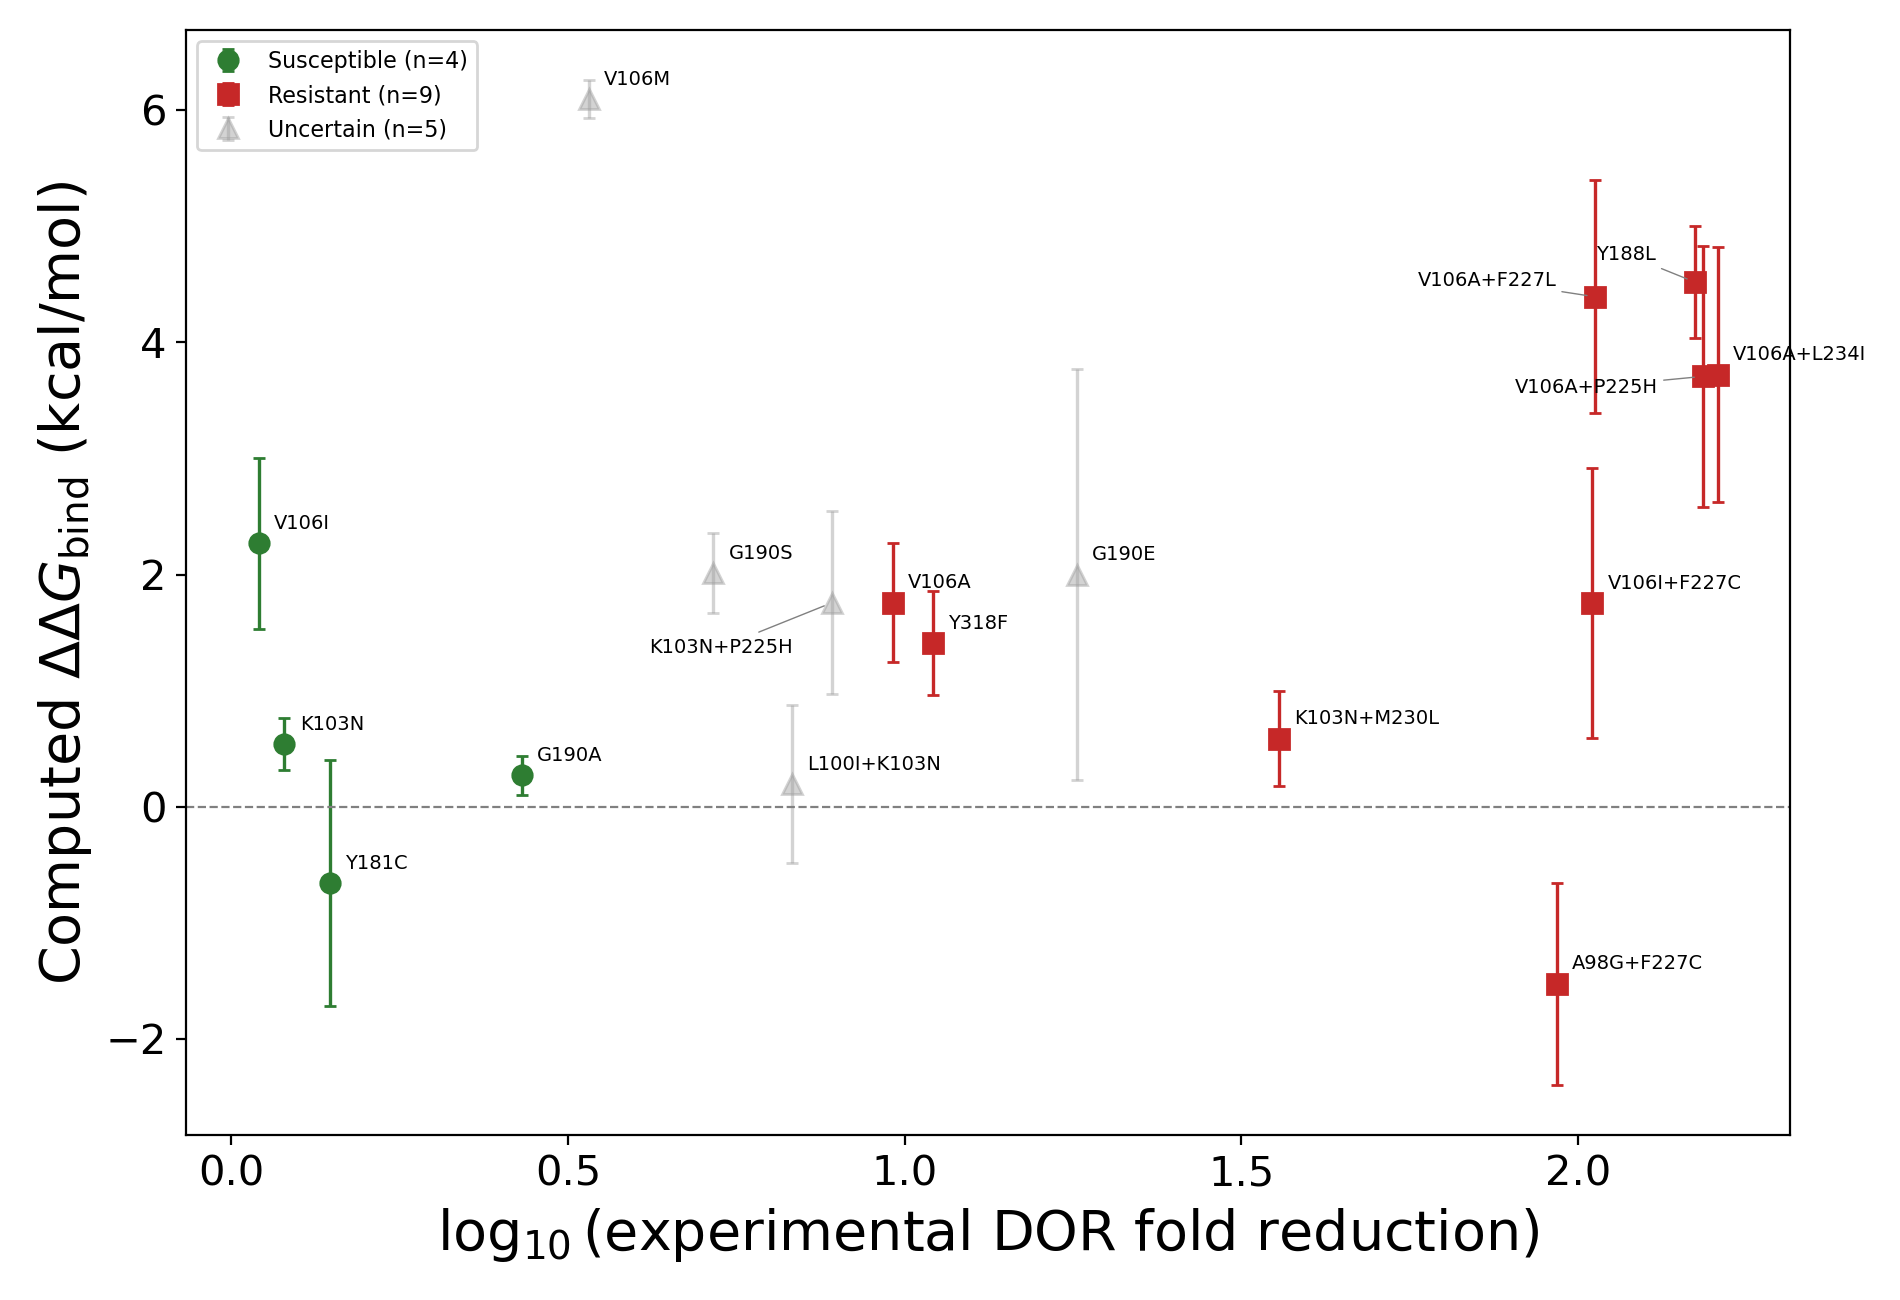
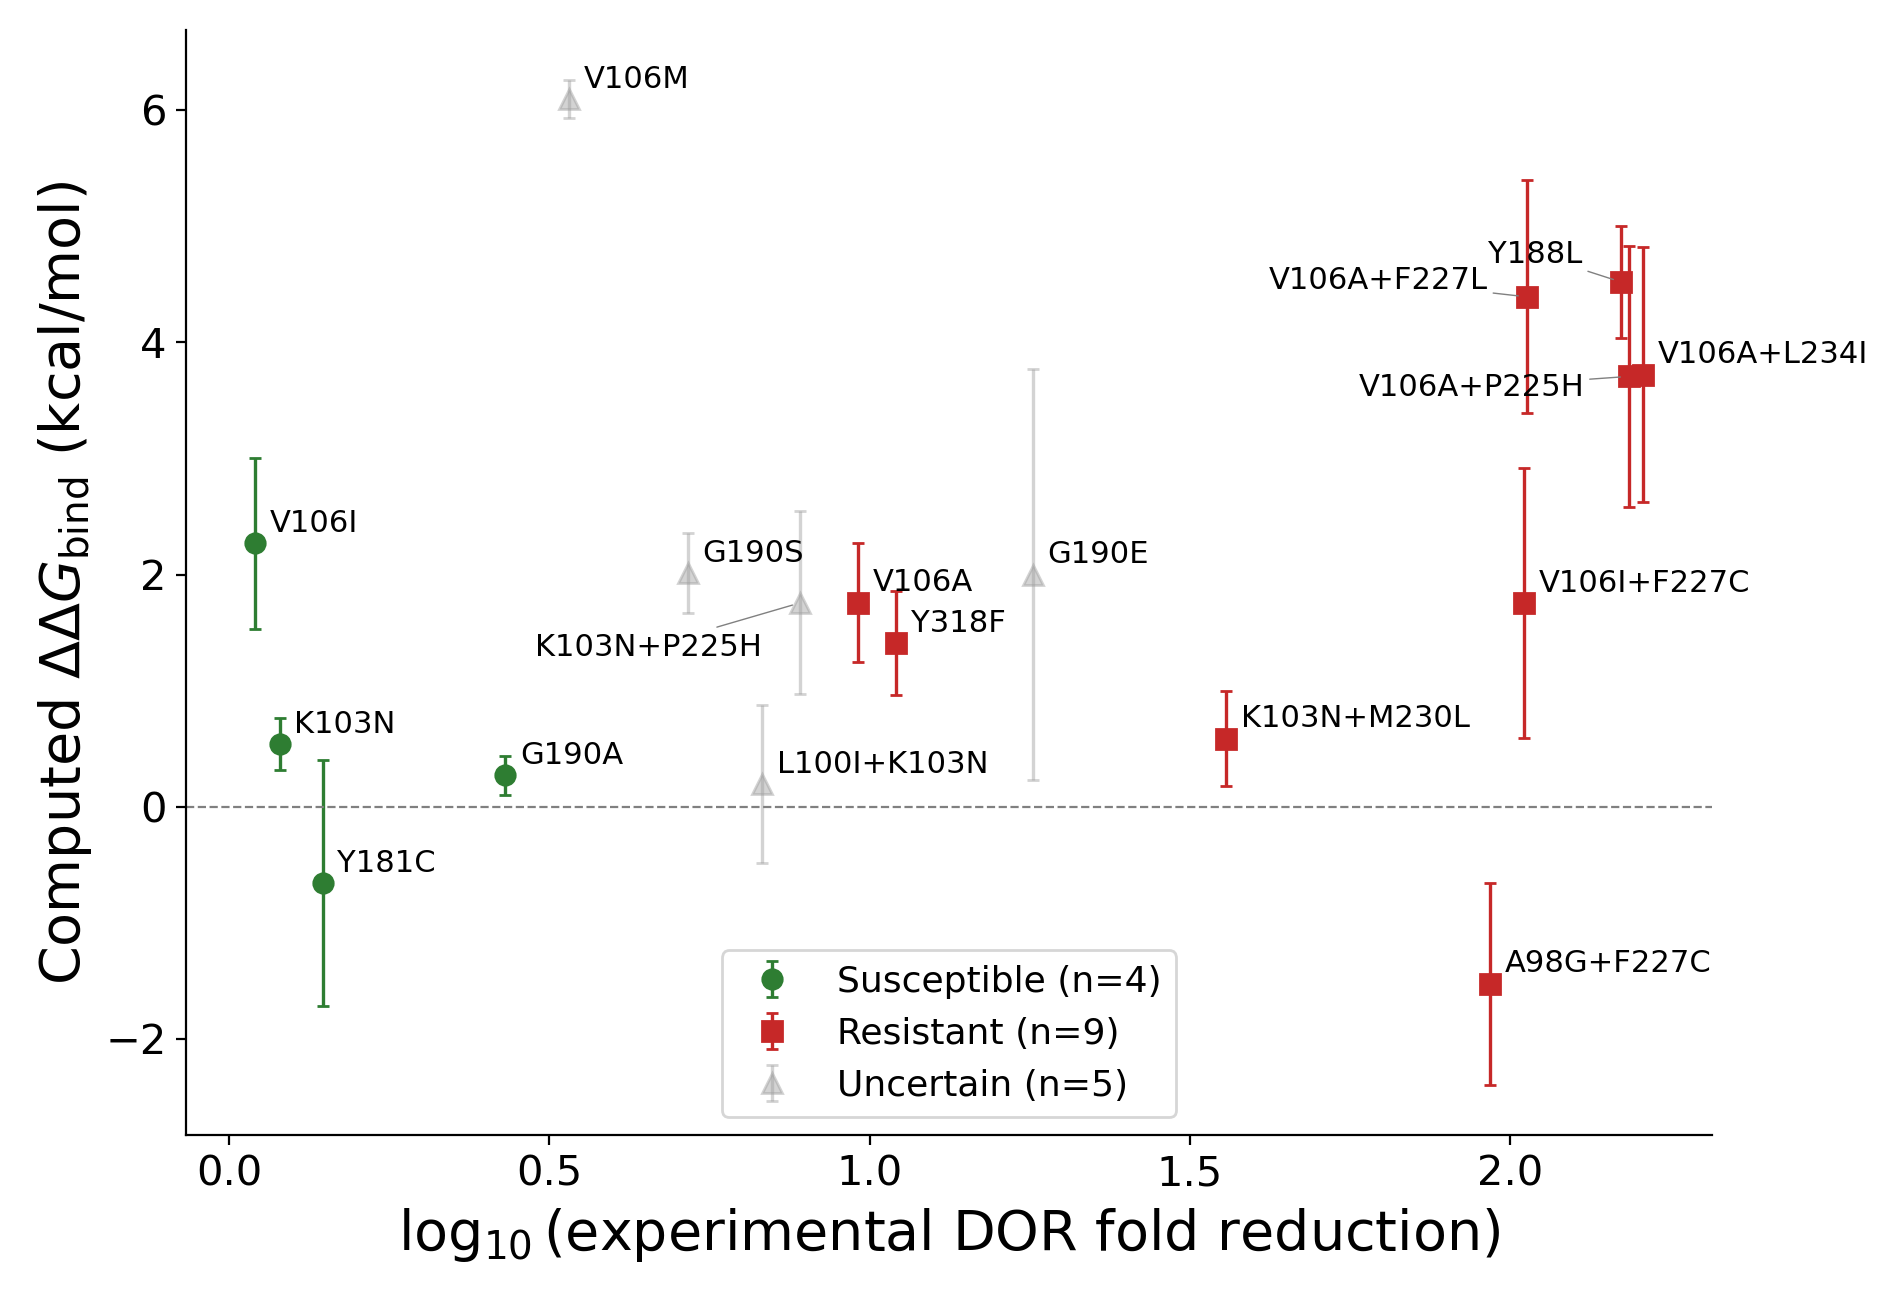
fep_pmx: category panel - drop top/right spines, larger legend and point labels
Top and right spines removed. Point labels 7 -> 11pt, legend 8 -> 13pt, both
promoted to named constants (POINT_LABEL_FONTSIZE, LEGEND_FONTSIZE) alongside the
existing axis/tick sizes.

Legend moved to lower centre: at 13pt in the upper-left corner it covered V106M,
the highest point on the panel. The mid/low-ddG band is the emptiest region and
keeps it clear of V106M, A98G+F227C and the Y181C error bar.

diff --git a/src/analysis/cli/plot_panel_by_resistance_category.py b/src/analysis/cli/plot_panel_by_resistance_category.py
@@ -67,6 +67,8 @@ LABEL_OVERRIDES = {
 }
 AXIS_LABEL_FONTSIZE = 20  # 2x the matplotlib default
 TICK_LABEL_FONTSIZE = 15  # scaled to stay proportionate to the axis labels
+POINT_LABEL_FONTSIZE = 11  # genotype labels on the scatter
+LEGEND_FONTSIZE = 13
 
 
 def _load_repel():
@@ -193,7 +195,7 @@ def main(argv: list[str] | None = None) -> int:
         [math.log10(r["fold"]) for r in auto],
         [r["ddg"] for r in auto],
         [r["genotype"] for r in auto],
-        fontsize=7,
+        fontsize=POINT_LABEL_FONTSIZE,
     )
     for r in rows:
         off = LABEL_OVERRIDES.get(r["genotype"])
@@ -203,7 +205,7 @@ def main(argv: list[str] | None = None) -> int:
             r["genotype"],
             xy=(math.log10(r["fold"]), r["ddg"]),
             xytext=off, textcoords="offset points",
-            fontsize=7, ha="right", va="center",
+            fontsize=POINT_LABEL_FONTSIZE, ha="right", va="center",
             arrowprops=dict(arrowstyle="-", linewidth=0.5, color="0.5",
                             shrinkA=0.0, shrinkB=3.0),
         )
@@ -215,7 +217,11 @@ def main(argv: list[str] | None = None) -> int:
     ax.set_ylabel(r"Computed $\Delta\Delta G_{\mathrm{bind}}$ (kcal/mol)",
                   fontsize=AXIS_LABEL_FONTSIZE)
     ax.tick_params(axis="both", labelsize=TICK_LABEL_FONTSIZE)
-    ax.legend(loc="upper left", fontsize=8, frameon=True)
+    for side in ("top", "right"):
+        ax.spines[side].set_visible(False)
+    # Lower centre: upper left collided with V106M (the highest point), and the
+    # mid/low-ddG band is the emptiest region of the panel.
+    ax.legend(loc="lower center", fontsize=LEGEND_FONTSIZE, frameon=True)
     fig.tight_layout()
     fig.savefig(args.out_png, dpi=200)
     print(f"\nWrote {args.out_png}\nWrote {args.out_csv}")
